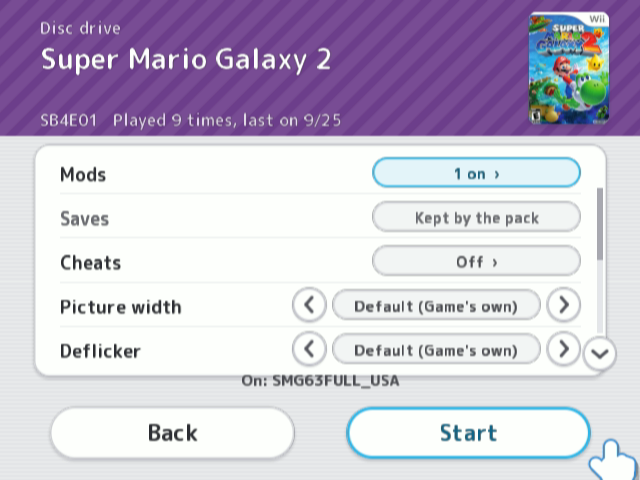
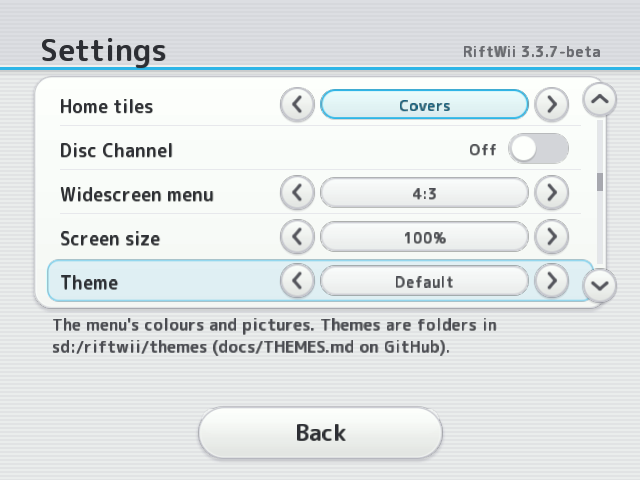
qol fix

diff --git a/index.html b/index.html
@@ -104,7 +104,7 @@
                     <span class="box-kicker">FEATURES</span>
             <div class="grid-image">
                 <img
-                    src="resources/img/features1.png"
+                    src="resources/img/features1.gif"
                     alt="Placeholder image"
                 >
 
@@ -368,12 +368,10 @@
         <div class="footer-year">
             RiftWii 2026
         </div>
-        <br>
         <div class="footer-main">
             <span class="footer-label">
                 Website by
             </span>
-
             <span class="footer-author">
                 Ｄｉａ！♪～☆
             </span>

diff --git a/tutorials/getting-started.html b/tutorials/getting-started.html
@@ -18,6 +18,11 @@
         rel="stylesheet"
         href="../css/tutorials.css"
     >
+    <link
+    rel="icon"
+    type="image/png"
+    href="https://github.com/KakarottoCake/Riftwii/blob/main/hbc/icon.png?raw=true"
+>
 </head>
 
 <body>
